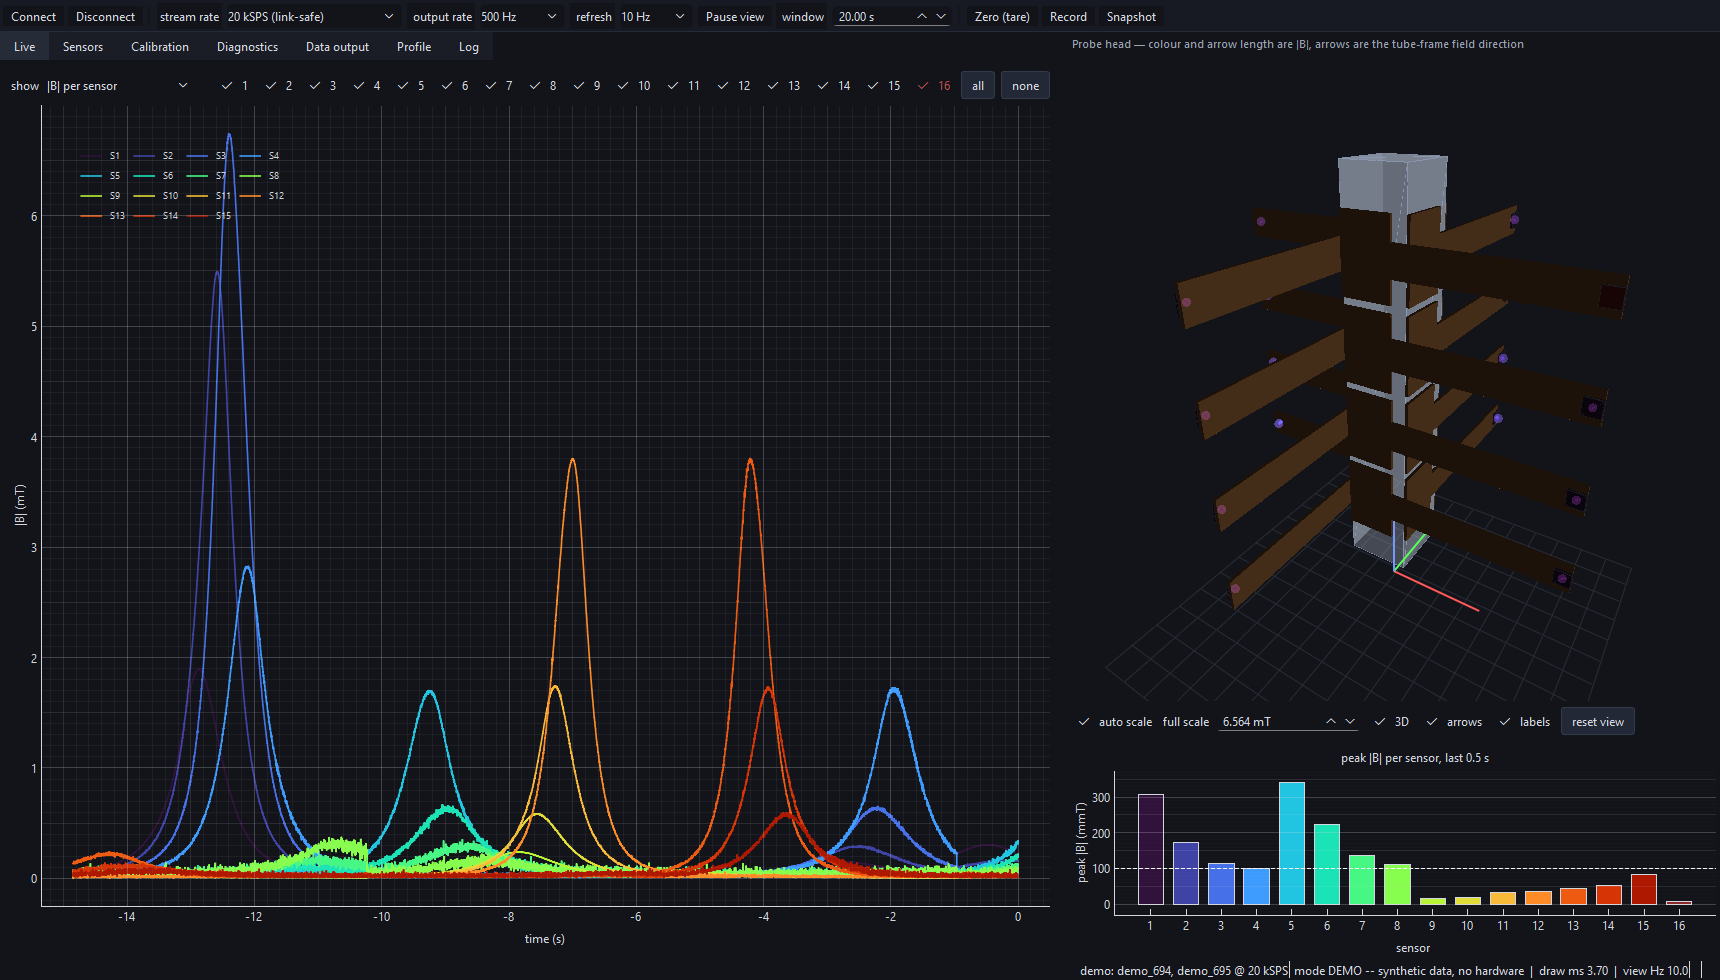
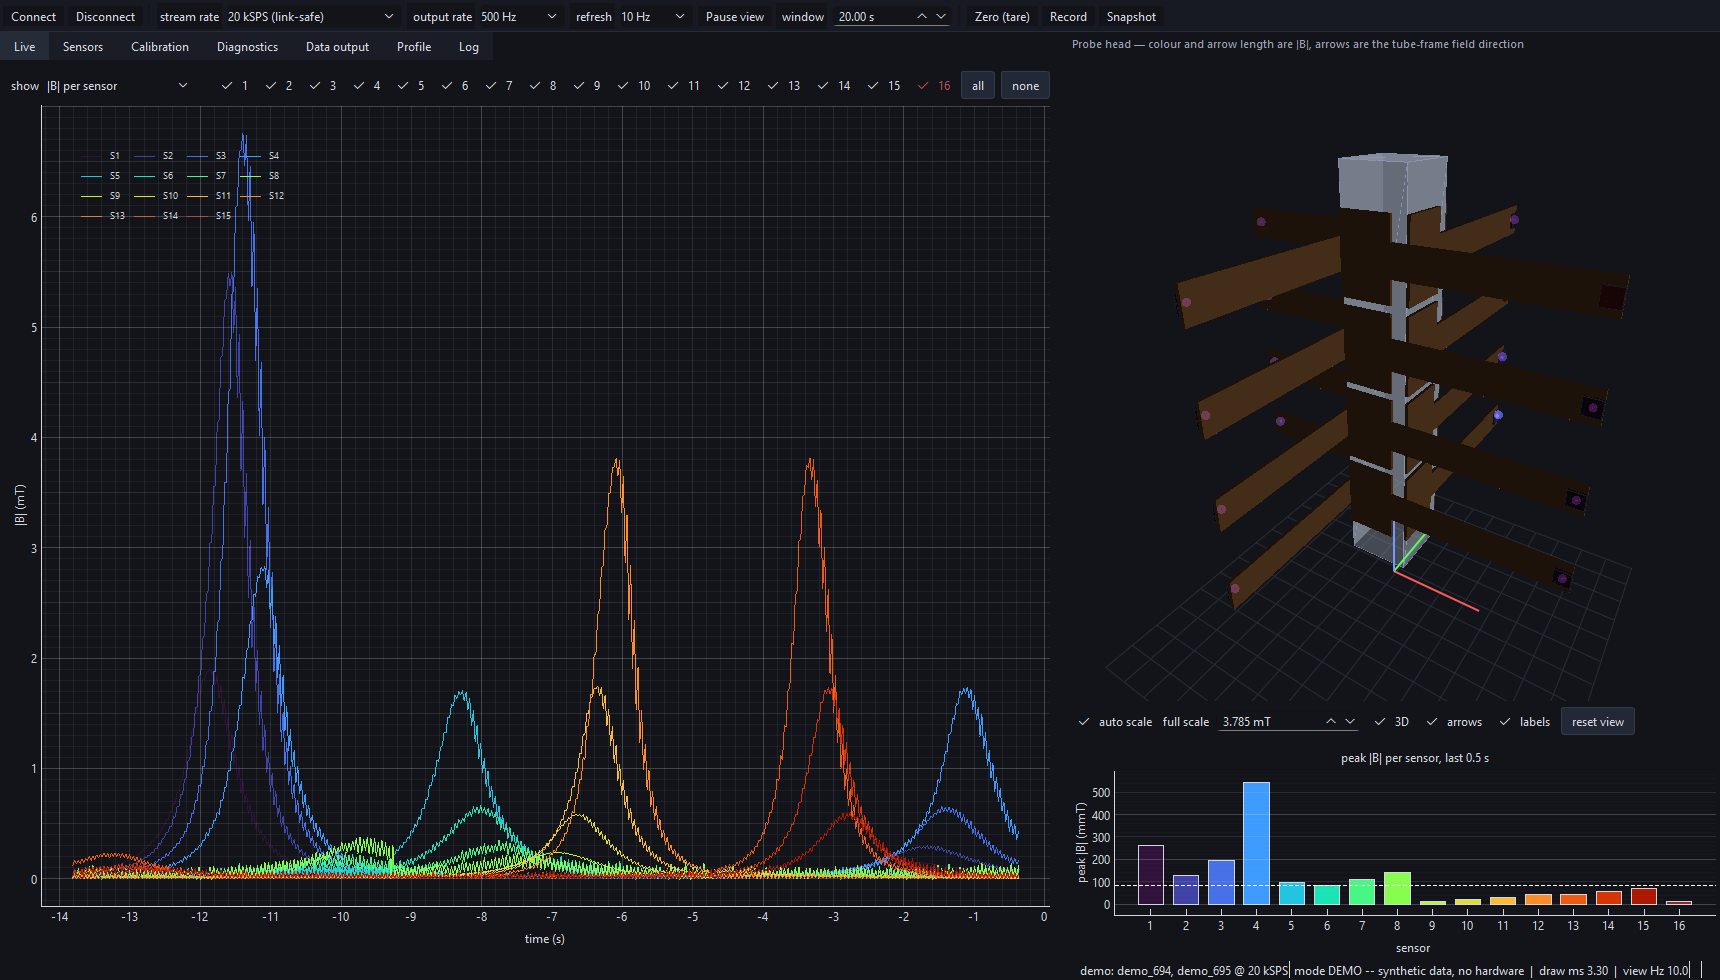
Live plot: 39 s per repaint -> 22 ms
The profile pointed at Qt rasterising the live plot, 4.6 s per repaint on the
bench PC while the setData asking for it cost 5 ms. Reproduced here at 39 s and
bisected:

  pen width 1.6, antialias on   39172 ms
  pen width 1                      74 ms
  + antialias off                  45 ms
  + decimate to the screen         22 ms

Qt strokes a cosmetic pen of non-integer width through a completely different
and far slower path. Same data, same point count, 500x. The curves were 1.6 and
1.1 wide with antialiasing on globally.

So: integer pen widths, antialiasing off, and each curve is handed about one
min/max pair per four pixels rather than the whole buffer. That last part makes
the repaint cost depend on the window's width in pixels instead of on the
buffer length or the output rate -- the 48-curve 2 kHz worst case went from
191 ms to 32 ms.

The decimation keeps each bin's min and max rather than striding, so a magnet
spike one sample wide still draws at full height.

Live after: repaint off the table, event loop lag mean 10.4 ms / worst 25 ms.
Regression: 122/122 synthetic, 122/122 replay, 129/129 live.

diff --git a/octobee_gui.py b/octobee_gui.py
@@ -67,7 +67,23 @@ HEALTH_PERIOD_S = 2.0
 HEALTH_WINDOW_S = 1.0
 RAW_HISTORY_S = 5.0
 
-pg.setConfigOptions(antialias=True, background=(18, 20, 26), foreground=(210, 214, 222))
+# Antialiasing off, and every plot pen exactly 1 pixel wide. This is not a
+# cosmetic preference, it is the difference between a usable application and an
+# unusable one. Qt strokes a cosmetic pen of non-integer width through a
+# completely different and vastly slower path: measured on a 20 s window of 15
+# traces, a single repaint took 39 SECONDS at width 1.6 with antialiasing, and
+# 74 ms at width 1. Turning antialiasing off as well brings it to 45 ms. The
+# symptom is a live plot that appears to hang the moment real data arrives,
+# with the cost invisible to any timing of our own code because it happens
+# inside Qt's paint.
+PLOT_PEN_WIDTH = 1
+# Points handed to each curve, as a multiple of the plot's width in pixels.
+# 0.5 gives one min/max pair per ~4 pixels, which still renders a hand-passed
+# magnet spike over many bins while costing a third of what 1.0 does. Raise it
+# if you need finer structure on screen and can afford the repaint.
+PLOT_TARGET_MULT = 0.5
+pg.setConfigOptions(antialias=False, background=(18, 20, 26),
+                    foreground=(210, 214, 222))
 
 
 class ProfiledPlot(pg.PlotWidget):
@@ -503,6 +519,8 @@ class LivePlot(QtWidgets.QWidget):
 
     def __init__(self, geom, profiler=None):
         super().__init__()
+        self.profiler = profiler or oprof.Profiler(enabled=False)
+        self.target_mult = PLOT_TARGET_MULT
         self.geom = geom
         self.mode = self.MODES[0]
         self.visible = set(range(N_SENSORS))
@@ -519,16 +537,17 @@ class LivePlot(QtWidgets.QWidget):
 
         self.mag_curves, self.axis_curves = [], []
         for s in range(N_SENSORS):
-            c = self.plot.plot(pen=pg.mkPen(self.colors[s], width=1.6),
-                               name=f"S{s+1}")
+            c = self.plot.plot(
+                pen=pg.mkPen(self.colors[s], width=PLOT_PEN_WIDTH),
+                name=f"S{s+1}")
             self._thin(c)
             self.mag_curves.append(c)
             row = []
             for a, style in enumerate((QtCore.Qt.PenStyle.SolidLine,
                                        QtCore.Qt.PenStyle.DashLine,
                                        QtCore.Qt.PenStyle.DotLine)):
-                cc = self.plot.plot(
-                    pen=pg.mkPen(self.colors[s], width=1.1, style=style))
+                cc = self.plot.plot(pen=pg.mkPen(
+                    self.colors[s], width=PLOT_PEN_WIDTH, style=style))
                 self._thin(cc)
                 row.append(cc)
             self.axis_curves.append(row)
@@ -591,21 +610,60 @@ class LivePlot(QtWidgets.QWidget):
                 if part is not None:
                     part.setVisible(on)
 
+    @staticmethod
+    def _to_screen(t, Y, target):
+        """
+        Reduce (n, ncurves) to about `target` points while keeping the extremes.
+
+        Each output bin contributes its minimum and its maximum, so a magnet
+        spike one sample wide still reaches full height -- which a plain stride
+        would throw away. Sharing one x array across all curves keeps this fully
+        vectorised, at the cost of placing each pair at the bin edges rather
+        than at the exact sample; one bin is about one pixel, so that is not
+        visible.
+
+        Doing this ourselves rather than leaving it to the plotting library
+        makes the repaint cost depend on the width of the window in pixels
+        instead of on the length of the buffer, so a longer time window or a
+        higher output rate no longer costs anything to draw.
+        """
+        n = Y.shape[0]
+        if n <= target:
+            return t, Y
+        bins = max(2, target // 2)
+        k = n // bins
+        m = bins * k
+        Yb = Y[:m].reshape(bins, k, Y.shape[1])
+        out = np.empty((bins * 2, Y.shape[1]), dtype=Y.dtype)
+        out[0::2] = Yb.min(axis=1)
+        out[1::2] = Yb.max(axis=1)
+        tb = t[:m:k]
+        x = np.repeat(tb, 2)
+        x[1::2] = tb + (t[-1] - t[0]) / bins * 0.5
+        return x, out
+
     def update_data(self, b_mt, fs_out):
         n = b_mt.shape[0]
         if n < 2:
             return
         t = (np.arange(n) - n) / fs_out
         shown = self.visible - self.dead
+        self.profiler.note("curves drawn", len(shown) * (1 if self.mode ==
+                                                         self.MODES[0] else 3))
+        self.profiler.note("points buffered", n)
+        target = max(256, int(self.plot.width() * self.target_mult))
         if self.mode == self.MODES[0]:
             mag = np.linalg.norm(b_mt, axis=-1)
+            x, y = self._to_screen(t, mag, target)
             for s in shown:
-                self.mag_curves[s].setData(t, mag[:, s])
+                self.mag_curves[s].setData(x, y[:, s])
         else:
             b = self.geom.to_tube_frame(b_mt) if "tube" in self.mode else b_mt
+            x, y = self._to_screen(t, b.reshape(n, -1), target)
             for s in shown:
                 for a in range(3):
-                    self.axis_curves[s][a].setData(t, b[:, s, a])
+                    self.axis_curves[s][a].setData(x, y[:, s * 3 + a])
+        self.profiler.note("points drawn per curve", len(x))
 
 
 class SensorBars(QtWidgets.QWidget):

diff --git a/selftest.py b/selftest.py
@@ -264,6 +264,65 @@ def test_posecal():
         check("the report calls the dead sensor out",
               "NO RESPONSE" in dsol.report())
 
+    # ---- S16's ACTUAL fault, not a convenient version of it --------------
+    # ch29/30/32 (Bz, By, VCM) pinned at negative full scale while ch31 (Bx)
+    # reads normally. This is nastier than a sensor that saw nothing: the railed
+    # channels are CONSTANT, so the model fits them perfectly with a big offset.
+    # The residual comes back indistinguishable from a healthy sensor and the
+    # condition number stays near 1e4, so neither residual nor conditioning can
+    # see it. Only the solved gain gives it away.
+    cal20 = ocal.Calibration(ranges_mt=np.full(n_sens, 20.0))
+    vpc = 20.0 / 65536
+    rng16 = np.random.default_rng(17)
+    g16 = 1.0 + rng16.normal(0, 0.03, n_sens)
+    R16 = geom.rotations()
+    S16t = np.array([np.eye(3) / g16[i] for i in range(n_sens)])
+    M16 = np.array([np.linalg.inv(R16[i] @ S16t[i]) for i in range(n_sens)])
+
+    def railed_sweep(tag, incl_deg, fault=True, n=2500):
+        a = np.deg2rad(incl_deg)
+        bt, bz = 49.0e-3 * np.cos(a), 49.0e-3 * np.sin(a)
+        phi = np.sort(rng16.uniform(0, 4 * np.pi, n))
+        B = np.column_stack([bt * np.cos(phi), bt * np.sin(phi), np.full(n, bz)])
+        v = np.zeros((n, n_sens, 4))
+        v[..., :3] = (np.einsum("sij,tj->tsi", M16, B) / 1e3
+                      * cal20.volts_per_tesla[None, :, None] + 2.2)
+        v[..., 3] = 2.2
+        if fault:
+            rail = -32768 * vpc
+            v[:, 15, 2] = rail        # Bz
+            v[:, 15, 1] = rail        # By
+            v[:, 15, 3] = rail        # VCM
+            #  Bx (index 0) deliberately left alive
+        v += rng16.normal(0, 3e-5, v.shape)
+        return opc.RollSweep(
+            cal20.to_mt(v, apply_zero=False, apply_gain=False, apply_matrix=False),
+            tag=tag, ranges_mt=cal20.ranges_mt.copy())
+
+    faulted = [railed_sweep(t, i) for t, i in (("A", 25.), ("B", -25.), ("C", 60.))]
+    fsol = opc.solve_roll(faulted, geom, 49.0)          # NOT told about S16
+    check("the real S16 railed fault is caught without being told",
+          fsol.unusable() == ["S16"], f"flagged {fsol.unusable()}")
+    check("neither residual nor conditioning could have caught it",
+          abs(fsol.residual_mt[15] - np.median(fsol.residual_mt[:15]))
+          < 0.5 * np.median(fsol.residual_mt[:15])
+          and np.linalg.cond(fsol.M[15]) < opc.PoseSolution.SINGULAR_COND,
+          f"resid {fsol.residual_mt[15]*1e3:.3f} vs "
+          f"{np.median(fsol.residual_mt[:15])*1e3:.3f} uT, "
+          f"cond {np.linalg.cond(fsol.M[15]):.1e}")
+    tr = np.array([np.sqrt(abs(fsol.decompose()[1][i][0, 0]
+                               * fsol.decompose()[1][i][2, 2])) for i in range(15)])
+    tt = np.array([np.sqrt(S16t[i][0, 0] * S16t[i][2, 2]) for i in range(15)])
+    rel = (tr / np.median(tr)) / (tt / np.median(tt))
+    check("one railed sensor does not poison the other fifteen",
+          np.abs(rel - 1).max() * 100 < 0.5,
+          f"S1-S15 match {np.abs(rel - 1).max() * 100:.4f} %")
+
+    clean = [railed_sweep(t, i, fault=False)
+             for t, i in (("A", 25.), ("B", -25.), ("C", 60.))]
+    check("a healthy probe raises no false alarm",
+          opc.solve_roll(clean, geom, 49.0).unusable() == [])
+
     # ---- refuses to mix ranges -------------------------------------------
     lo = opc.RollSweep(A.b_mt, tag="A", ranges_mt=np.full(n_sens, 40.0))
     hi = opc.RollSweep(B.b_mt, tag="B", ranges_mt=np.full(n_sens, 400.0))

diff --git a/octobee_posecal.py b/octobee_posecal.py
@@ -284,12 +284,45 @@ class PoseSolution:
         self._singular = bad
         return C
 
+    # A sensor whose gain lands this far from the pack did not measure the field
+    # it was in. Deliberately loose -- this is a broken-channel detector, not a
+    # quality threshold, and a genuinely poor sensor should still be reported
+    # with its real number rather than hidden.
+    GAIN_SANITY = 5.0
+
     @property
     def singular(self):
-        """Sensors whose response could not be inverted -- treat as unusable."""
+        """Sensors whose response matrix could not be inverted."""
         if not hasattr(self, "_singular"):
             self.chip_to_tube()
         return list(self._singular)
+
+    def unusable(self):
+        """
+        Sensors whose solved response cannot be believed.
+
+        Two different faults, because they look nothing alike numerically:
+
+        * rank-deficient -- the sensor saw nothing at all, and the matrix will
+          not invert.
+        * responded, but not to the field -- S16's real fault on this probe is
+          Bz, By and VCM railed at negative full scale while Bx still reads. The
+          railed channels are CONSTANT, so the model fits them perfectly with a
+          large offset: the residual comes out indistinguishable from a healthy
+          sensor, and the condition number stays around 1e4, nowhere near
+          singular. Neither residual nor conditioning catches it. What does is
+          that the solved gain lands orders of magnitude away from the pack,
+          because two of the three axes never moved.
+        """
+        bad = set(self.singular)
+        g = self.gains()
+        med = np.nanmedian(g)
+        if np.isfinite(med) and med > 0:
+            for i in range(N_SENSORS):
+                if not np.isfinite(g[i]) or not (
+                        med / self.GAIN_SANITY < g[i] < med * self.GAIN_SANITY):
+                    bad.add(f"S{i + 1}")
+        return sorted(bad, key=lambda s: int(s[1:]))
 
     def decompose(self):
         """
@@ -416,10 +449,11 @@ class PoseSolution:
                  f"gain spread: {(np.nanmax(g) - np.nanmin(g)) * 100:.2f} % "
                  f"peak-to-peak about the median",
                  ""]
-        bad = set(self.singular)
+        bad = set(self.unusable())
         if bad:
-            lines.append(f"UNUSABLE (no invertible response): "
-                         f"{', '.join(sorted(bad))}")
+            lines.append("UNUSABLE (response is nothing like the rest of the "
+                         "pack -- check the ribbon before believing anything "
+                         f"about these): {', '.join(sorted(bad, key=lambda s: int(s[1:])))}")
             lines.append("")
         lines.append("  sensor   gain    resid_uT   max non-ortho")
         for i in range(N_SENSORS):
@@ -763,7 +797,7 @@ def _anchor_gauge(sol, geometry):
     # Best single rotation about z aligning solved to nominal: maximise
     # sum_i trace(Rz(g)^T R_nom_i R_i^T) -> closed form in atan2.
     s = c = 0.0
-    bad = set(sol.singular)
+    bad = set(sol.unusable())
     for i in range(N_SENSORS):
         if f"S{i + 1}" in bad:
             continue        # a sensor that saw nothing gets no say in the frame

diff --git a/README.md b/README.md
@@ -832,7 +832,34 @@ How to read it:
 | reader queue growing | acquisition is falling behind; recordings will have holes |
 | lag large, every row small | something outside this list is blocking |
 
-Two findings from building it, both now fixed, both worth knowing about:
+#### The one that mattered
+
+A live plot repaint was taking **4.6 seconds** on the bench PC and 39 seconds on
+the slower machine here, while the code asking for it took 5 ms. It was not the
+volume of data. Reproduced and bisected:
+
+| setting | ms per repaint |
+|---|---|
+| pen width **1.6**, antialiasing on | **39 172** |
+| pen width **1** | **74** |
+| + antialiasing off | 45 |
+| + decimate to the screen | 22 |
+
+Qt strokes a cosmetic pen of non-integer width through a completely different
+and vastly slower path. Same data, same point count, 500x. So the live plot now
+uses integer pen widths, antialiasing off, and hands each curve about one
+min/max pair per four pixels instead of the whole buffer -- which makes the
+repaint cost depend on the width of the window in pixels rather than on the
+length of the buffer or the output rate.
+
+Note the decimation keeps each bin's minimum AND maximum rather than taking
+every Nth sample. A plain stride is cheaper still, but it drops a magnet spike
+that happens to fall between the samples it keeps; min/max renders that spike
+at full height. The same reasoning applies upstream: the 20 kSPS stream is
+block-*averaged* down to the output rate, not strided, because averaging also
+suppresses noise instead of aliasing it.
+
+Two more findings, both now fixed:
 
 - pyqtgraph's downsampling has to be set **on the curves**, not just on the
   plot. Without it Qt was rasterising 16 traces x 10 000 points on every
